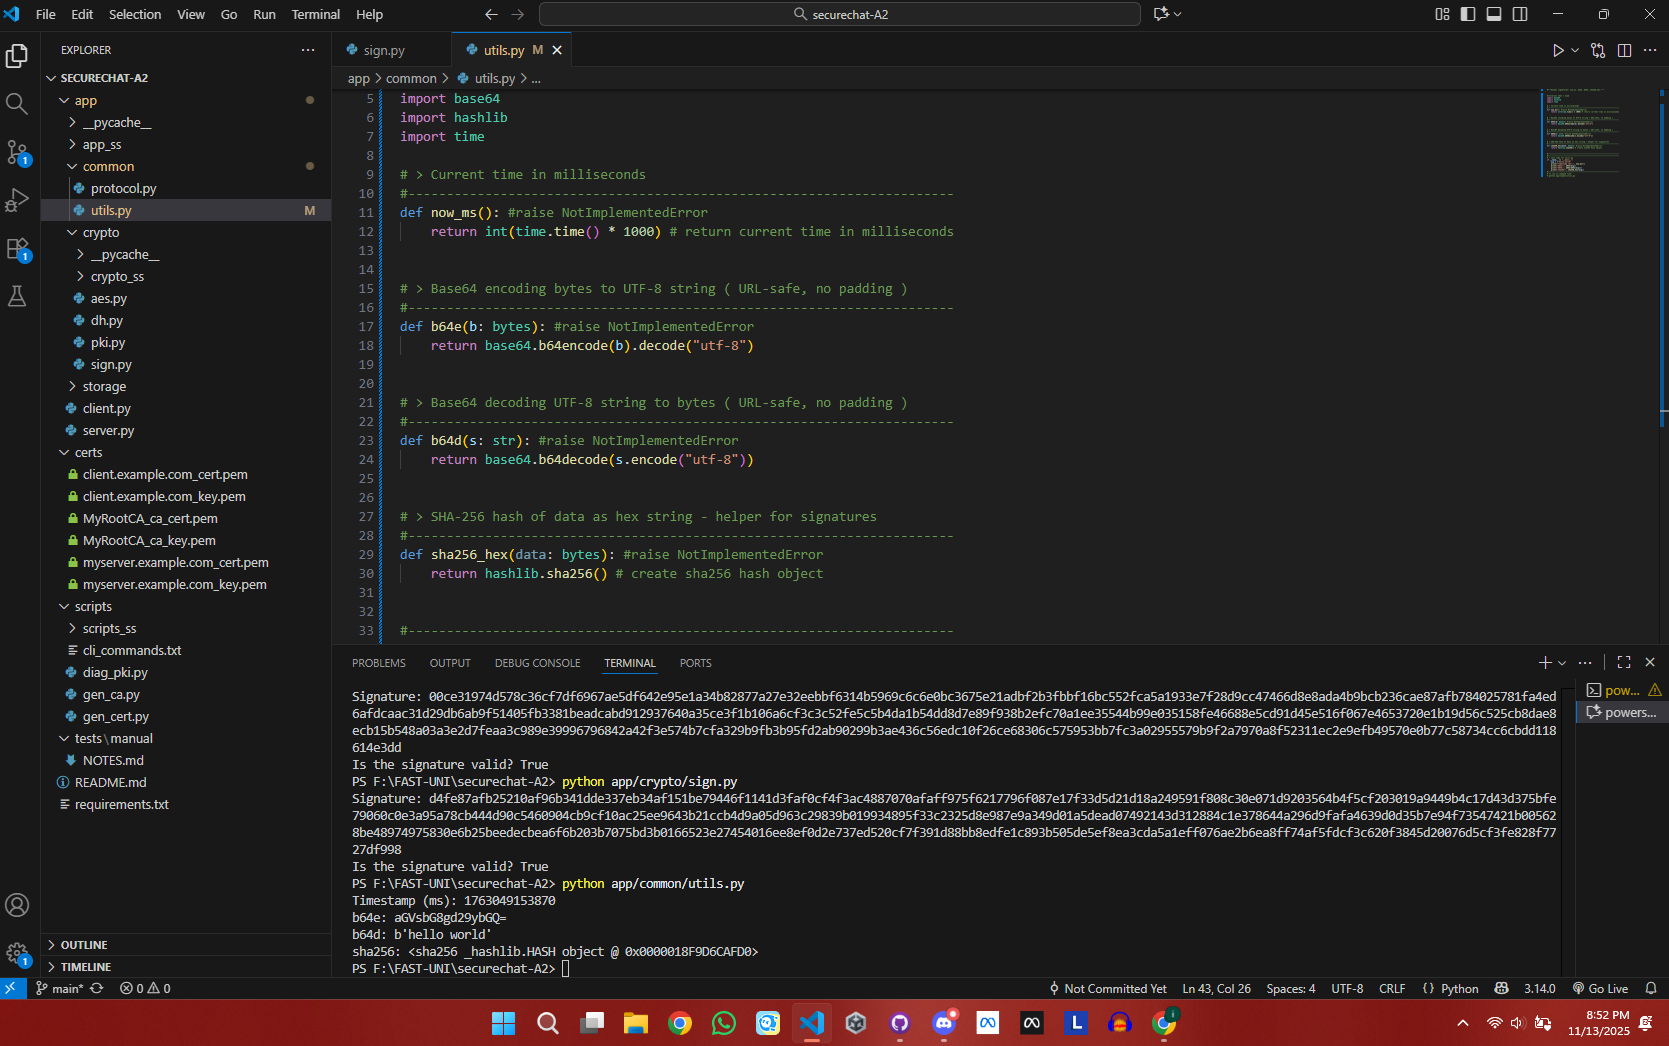
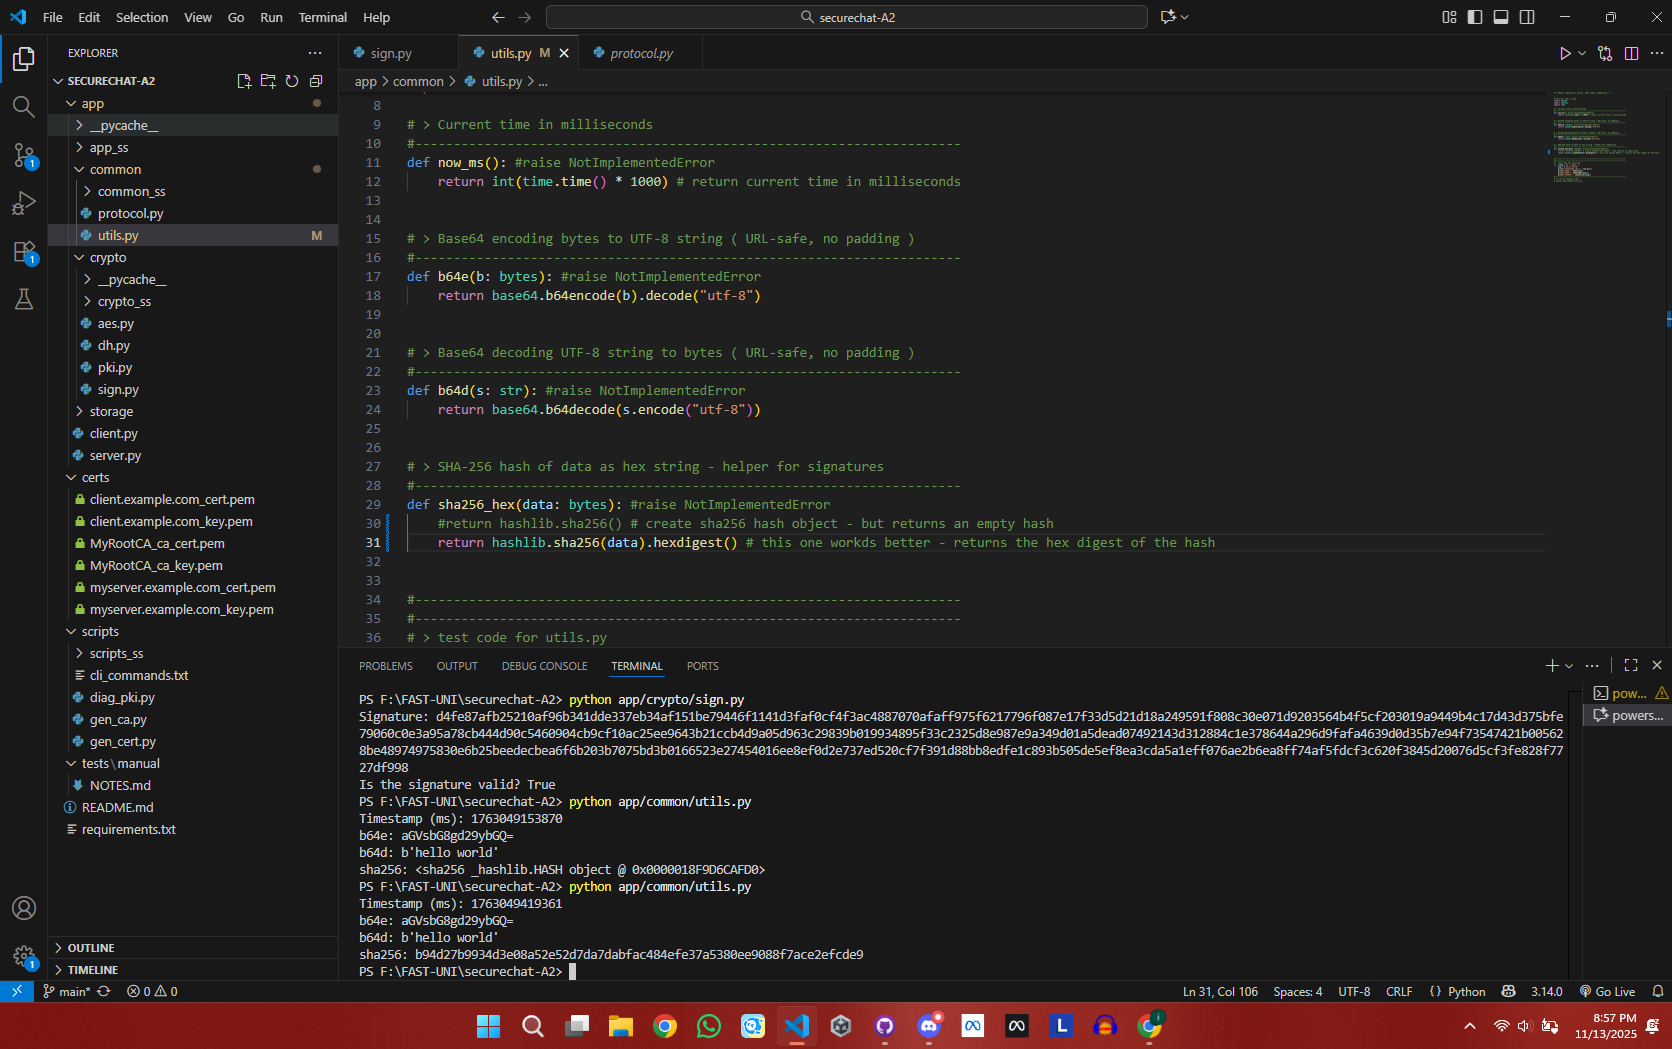
hex string & sha256 - minor update ( utils.py )

diff --git a/app/common/utils.py b/app/common/utils.py
@@ -27,7 +27,8 @@ def b64d(s: str): #raise NotImplementedError
 # > SHA-256 hash of data as hex string - helper for signatures
 #-----------------------------------------------------------------------
 def sha256_hex(data: bytes): #raise NotImplementedError
-    return hashlib.sha256() # create sha256 hash object
+    #return hashlib.sha256() # create sha256 hash object - but returns an empty hash
+    return hashlib.sha256(data).hexdigest() # this one workds better - returns the hex digest of the hash
 
 
 #-----------------------------------------------------------------------
